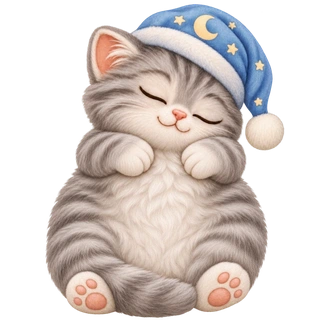
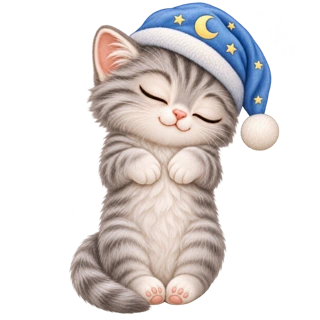
feat(filword): add eighteen backgrounds and redraw Sonya

diff --git a/src/shop.js b/src/shop.js
@@ -10,6 +10,24 @@
 
 const PRICE = 700;
 export const BACKGROUNDS = [
+  { id: 'coral-arabesque', name: 'Коралловая арабеска', price: PRICE },
+  { id: 'blue-lace', name: 'Голубое кружево', price: PRICE },
+  { id: 'blue-arabesque', name: 'Синяя арабеска', price: PRICE },
+  { id: 'light-flowers', name: 'Серебристые цветы', price: PRICE },
+  { id: 'gold-ornament', name: 'Золотой орнамент', price: PRICE },
+  { id: 'golden-arabesque', name: 'Золотая арабеска', price: PRICE },
+  { id: 'ornament-final', name: 'Узорный шёлк', price: PRICE },
+  { id: 'beige-ornament', name: 'Бежевый орнамент', price: PRICE },
+  { id: 'brown-ornament', name: 'Шоколадный орнамент', price: PRICE },
+  { id: 'brown-brocade', name: 'Коричневая парча', price: PRICE },
+  { id: 'dark-green-ornament', name: 'Изумрудный орнамент', price: PRICE },
+  { id: 'engraved-ornament', name: 'Узорная гравюра', price: PRICE },
+  { id: 'red-ornament', name: 'Красный орнамент', price: PRICE },
+  { id: 'taupe-ornament', name: 'Дымчатый орнамент', price: PRICE },
+  { id: 'red-folk-mandala', name: 'Красная мандала', price: PRICE },
+  { id: 'light-textile', name: 'Цветной текстиль', price: PRICE },
+  { id: 'soft-texture', name: 'Серая ткань', price: PRICE },
+  { id: 'carpet-ornament', name: 'Ковровый орнамент', price: PRICE },
   { id: 'red-chintz', name: 'Красный ситец', price: PRICE },
   { id: 'golden-painting', name: 'Золотая роспись', price: PRICE },
   { id: 'floral-gzhel', name: 'Цветочная гжель', price: PRICE },

diff --git a/sw.js b/sw.js
@@ -7,10 +7,10 @@
 // new CACHE version, which downloads them again on install. So the game starts
 // without re-downloading megabytes, online or not.
 
-const CACHE = 'filword-v56';
+const CACHE = 'filword-v57';
 // Every file the game needs. On the very first visit modules load before the
 // worker starts, so they must be listed here to work offline (a test checks it).
-const CORE = ['./', 'index.html', 'style.css', 'manifest.webmanifest', 'data/words.json.gz',
+const CORE = ['data/bg/coral-arabesque.webp', 'data/bg/blue-lace.webp', 'data/bg/blue-arabesque.webp', 'data/bg/light-flowers.webp', 'data/bg/gold-ornament.webp', 'data/bg/golden-arabesque.webp', 'data/bg/ornament-final.webp', 'data/bg/beige-ornament.webp', 'data/bg/brown-ornament.webp', 'data/bg/brown-brocade.webp', 'data/bg/dark-green-ornament.webp', 'data/bg/engraved-ornament.webp', 'data/bg/red-ornament.webp', 'data/bg/taupe-ornament.webp', 'data/bg/red-folk-mandala.webp', 'data/bg/light-textile.webp', 'data/bg/soft-texture.webp', 'data/bg/carpet-ornament.webp', './', 'index.html', 'style.css', 'manifest.webmanifest', 'data/words.json.gz',
   'icons/icon-192.png', 'icons/icon-512.png',
   'src/game.js', 'src/board.js', 'src/rng.js', 'src/path.js', 'src/split.js',
   'src/selection.js', 'src/hint.js', 'src/sheet.js', 'src/dict-loader.js', 'src/celebrate.js', 'src/rewards.js', 'src/progress.js', 'src/loader.js', 'src/install.js', 'src/cloud.js', 'src/mode.js', 'src/shop.js', 'src/skins.js', 'src/cat-roster.js', 'src/cat-collection.js', 'src/stats.js', 'src/achievements.js', 'src/sheets.js',

diff --git a/src/game.js b/src/game.js
@@ -47,7 +47,7 @@ const STORAGE_KEY = CFG.stateKey;
 const BOARD_SIZE = CFG.size;
 // Shown in the menu, so it is easy to tell which version a phone runs.
 // Must match CACHE in sw.js (a test checks it).
-export const VERSION = 56;
+export const VERSION = 57;
 const STATS_KEY = CFG.statsKey;
 // Only the middle part of a cell reacts to the finger. Crossing a corner
 // between cells would otherwise pick a diagonal neighbour by accident.
